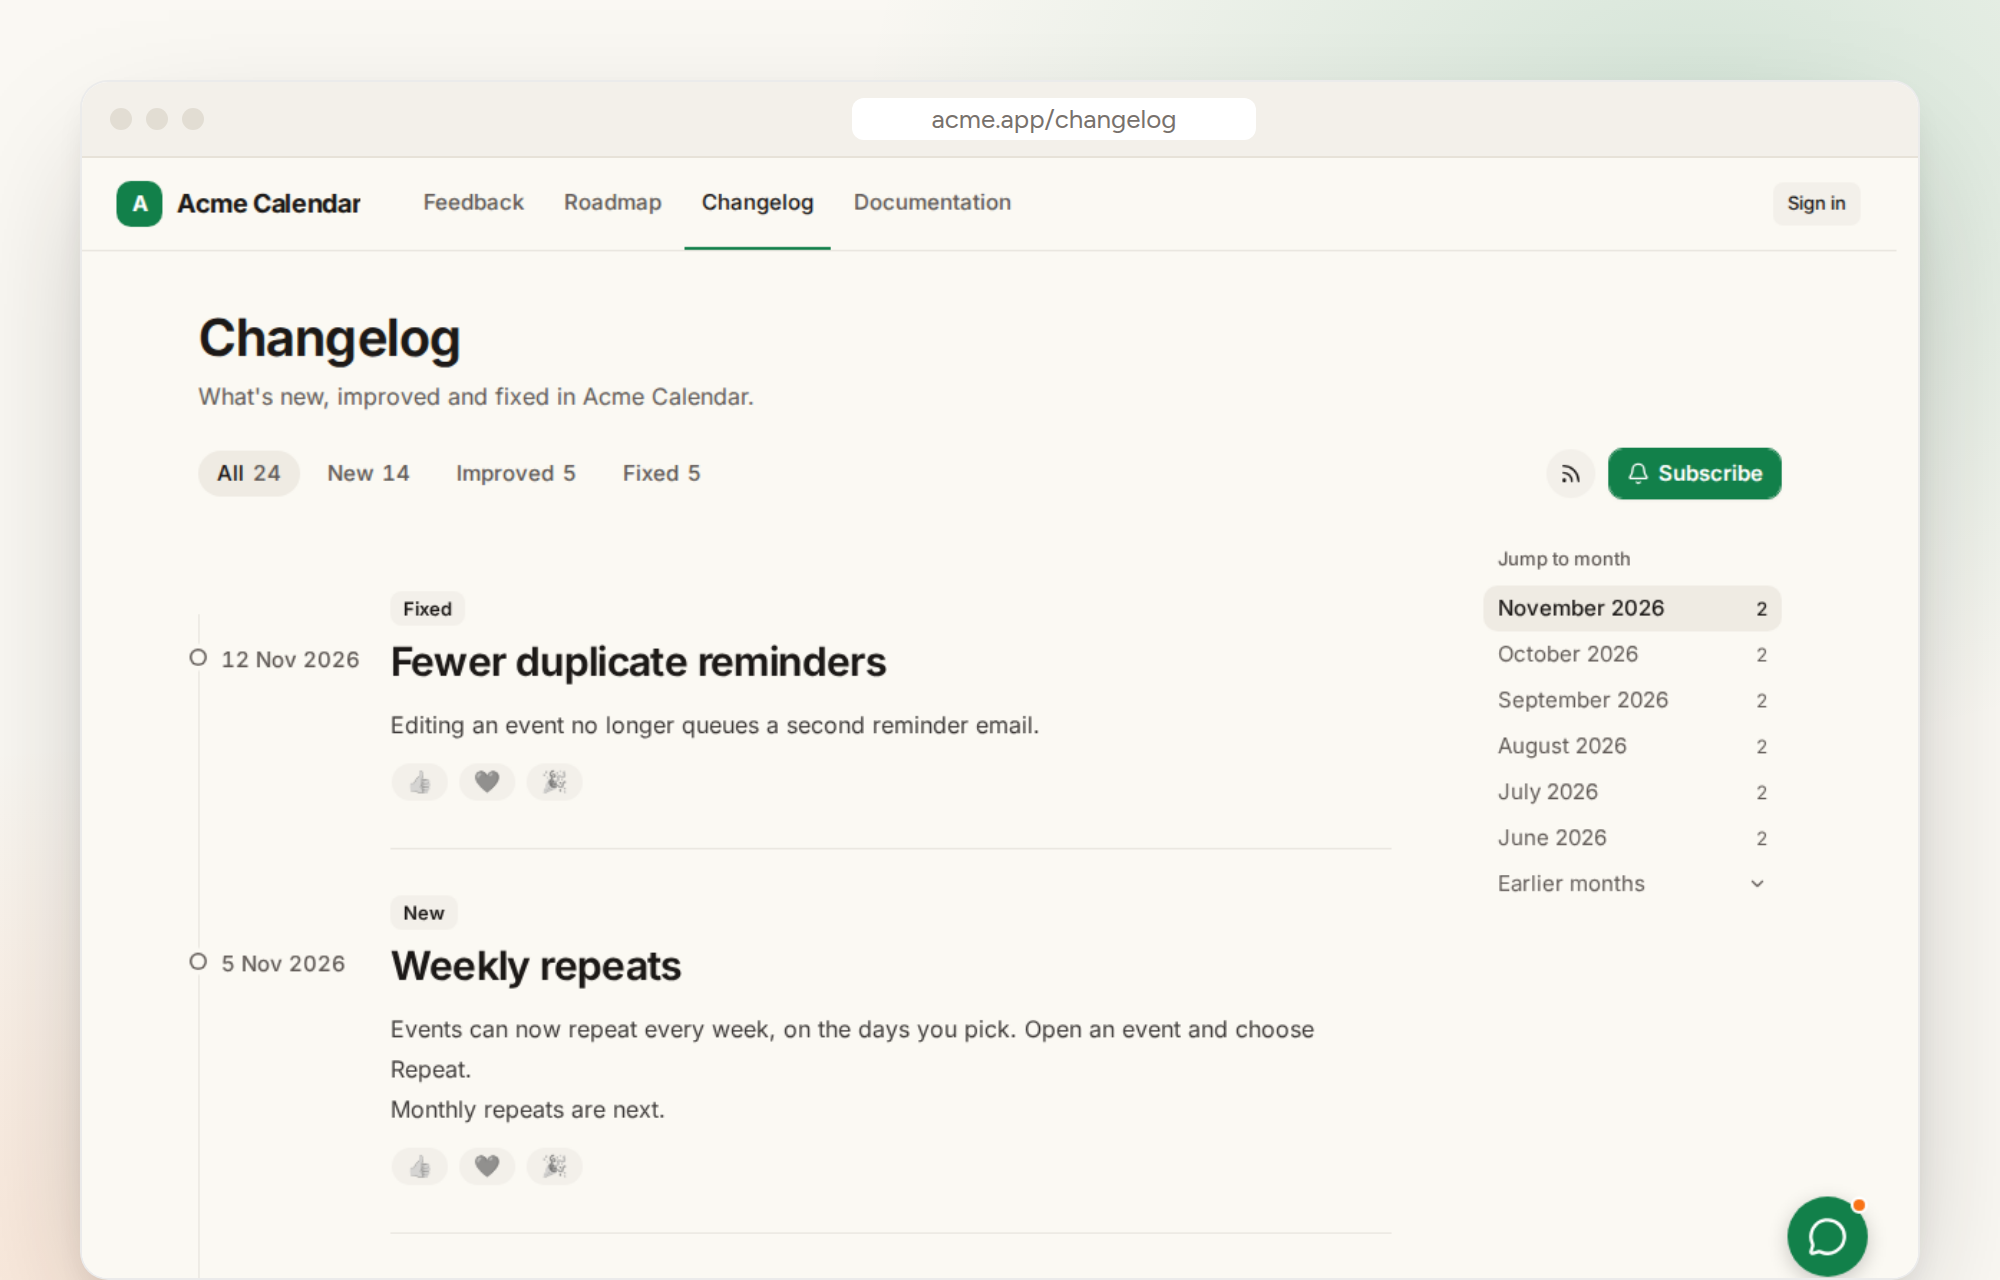
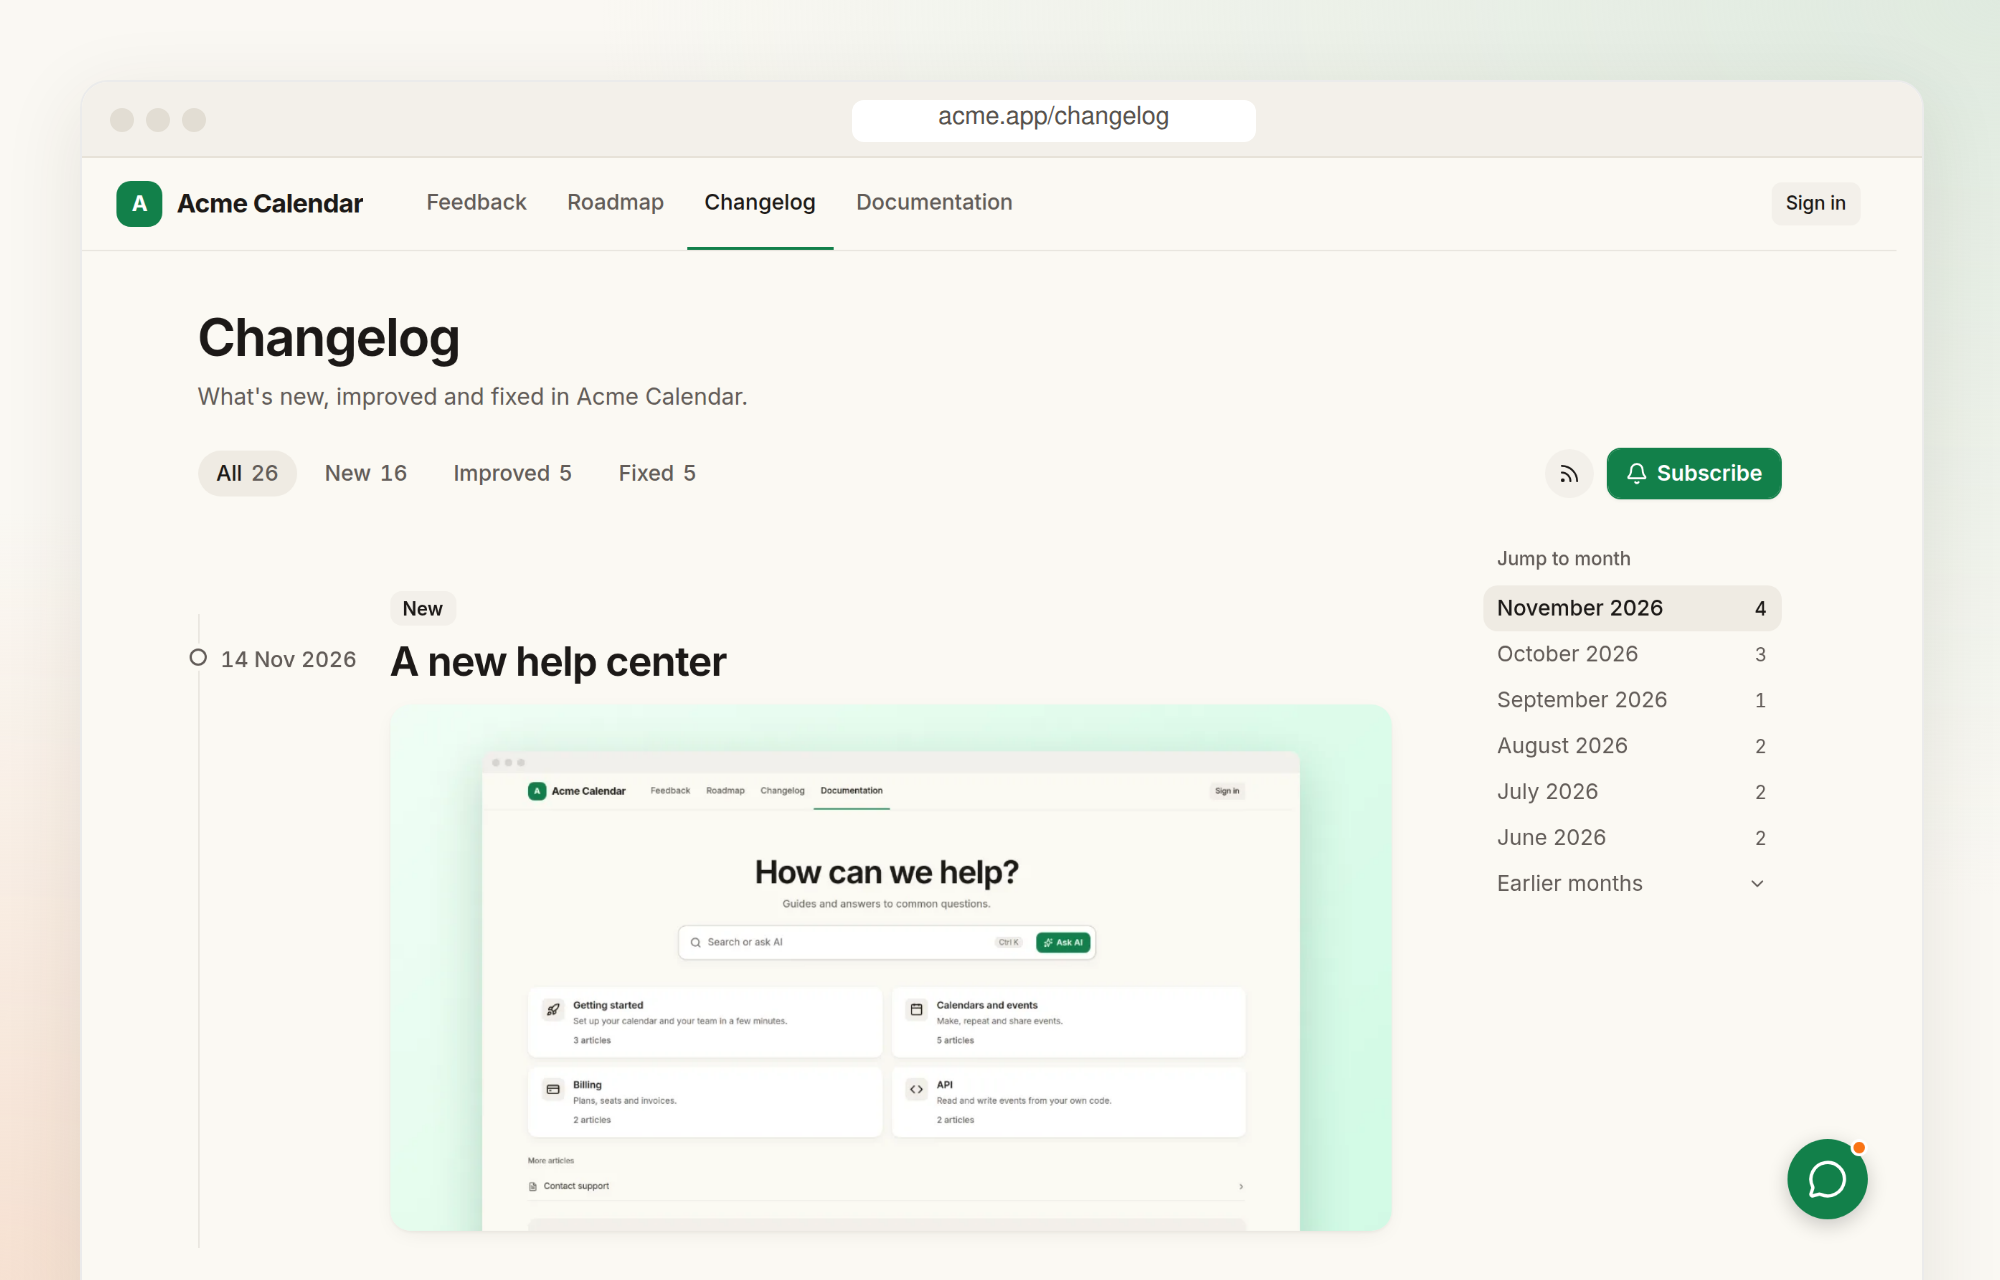
README: the changelog image shows an entry with an image
The README's changelog screenshot showed text-only entries, so it didn't show
that a changelog entry can carry an image. The new shot, in the same frame and
style as before, opens on an entry whose image shows full width in the list,
with the tag filters, Subscribe and the month list. Its alt text says so.

diff --git a/README.md b/README.md
@@ -60,7 +60,7 @@ Four tools that usually live in four tabs, built to work together. A question in
     <td width="50%" valign="top">
       <h3>📣 Changelog</h3>
       Show off what you ship. Subscribers hear about it, and voters hear when their idea lands.
-      <br><br><img src=".github/assets/changelog.png" alt="A public changelog with recent entries">
+      <br><br><img src=".github/assets/changelog.png" alt="A public changelog with an entry that shows a product image">
     </td>
   </tr>
 </table>
